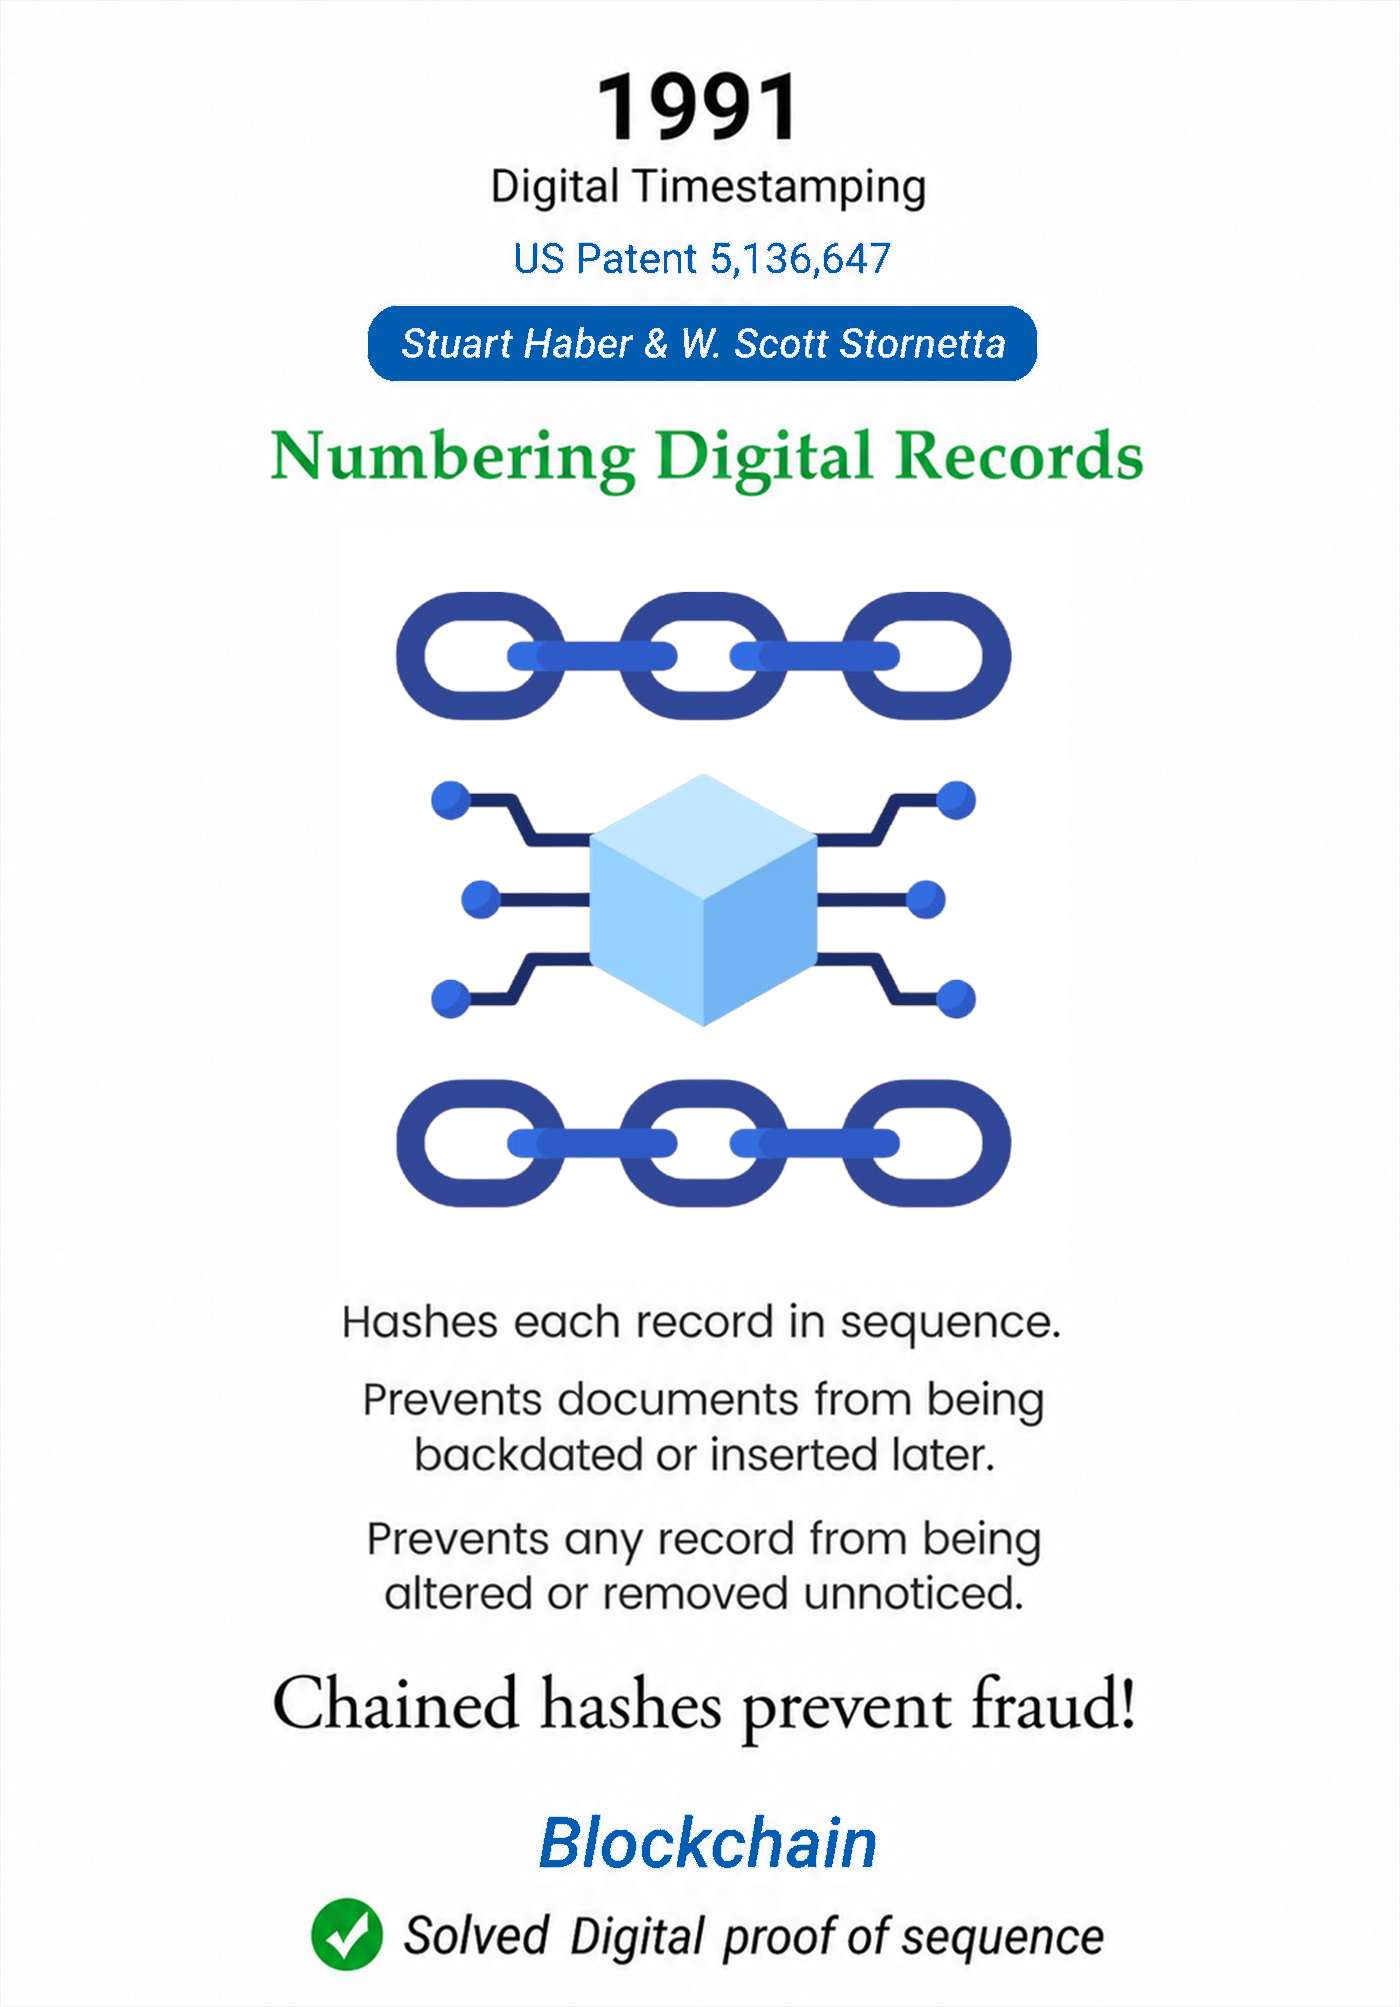
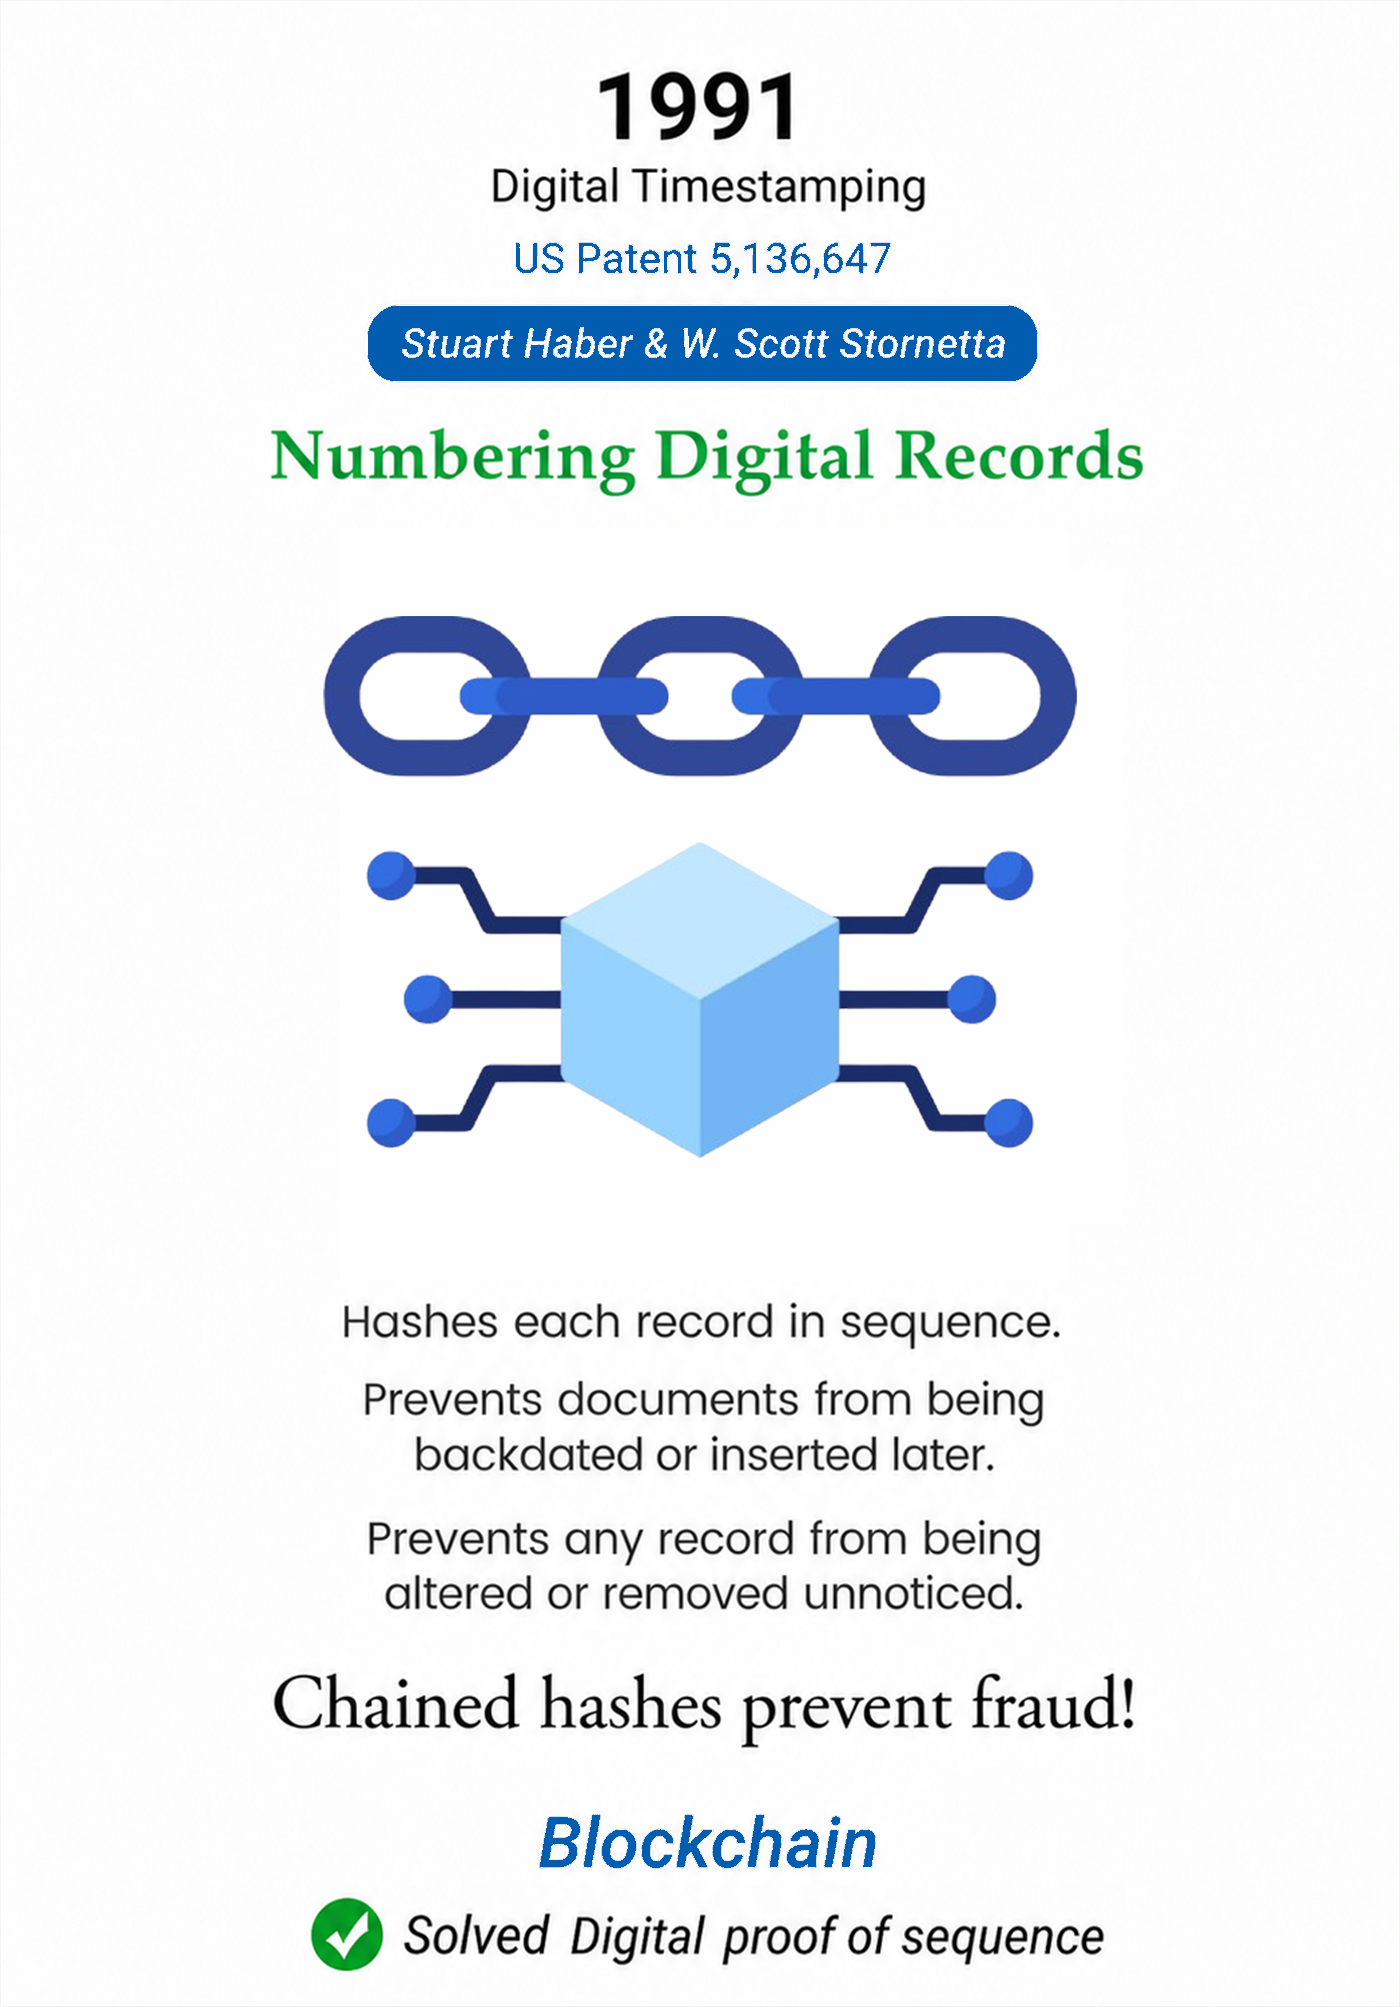
Restore Blockchain card on Numbering History page, update hero assets
- Numbering History: bring back the 1991 Blockchain card that was
  dropped in a previous cleanup pass; grid widened to 4 columns
- Update hero v1/v2 images, add swapped-messages hero variant, and
  re-save the blockchain history image

Claude-Session: https://claude.ai/code/session_01Szw8tPmqrffWaHD4mfrHXU

Changed region(s): [[0.215, 0.278, 0.7679, 0.6178]]

diff --git a/src/pages/about/NumberingHistory.jsx b/src/pages/about/NumberingHistory.jsx
@@ -3,6 +3,7 @@ import LogoMark from "../../components/ui/LogoMark.jsx";
 import history1Img from "../../assets/images/7 1st.avif";
 import history2Img from "../../assets/images/7  2nd.avif";
 import history3Img from "../../assets/images/7 3rd.avif";
+import blockchainHistoryImg from "../../assets/images/bloch chain history.png";
 
 export default function NumberingHistory() {
   return (
@@ -24,9 +25,13 @@ export default function NumberingHistory() {
             fraud.
           </p>
 
-          <div className="mt-10 grid grid-cols-1 gap-8 text-left sm:mt-12 sm:gap-10 md:grid-cols-2 lg:grid-cols-3">
+          <div className="mt-10 grid grid-cols-1 gap-8 text-left sm:mt-12 sm:gap-10 md:grid-cols-2 lg:grid-cols-4">
             <HistoryCard img={history1Img} imgAlt="Numbered book pages" />
             <HistoryCard img={history2Img} imgAlt="Mechanical numbering stamp" />
+            <HistoryCard
+              img={blockchainHistoryImg}
+              imgAlt="Blockchain digital timestamping"
+            />
             <HistoryCard img={history3Img} imgAlt="PhishFlagger email numbering" />
           </div>
         </div>
